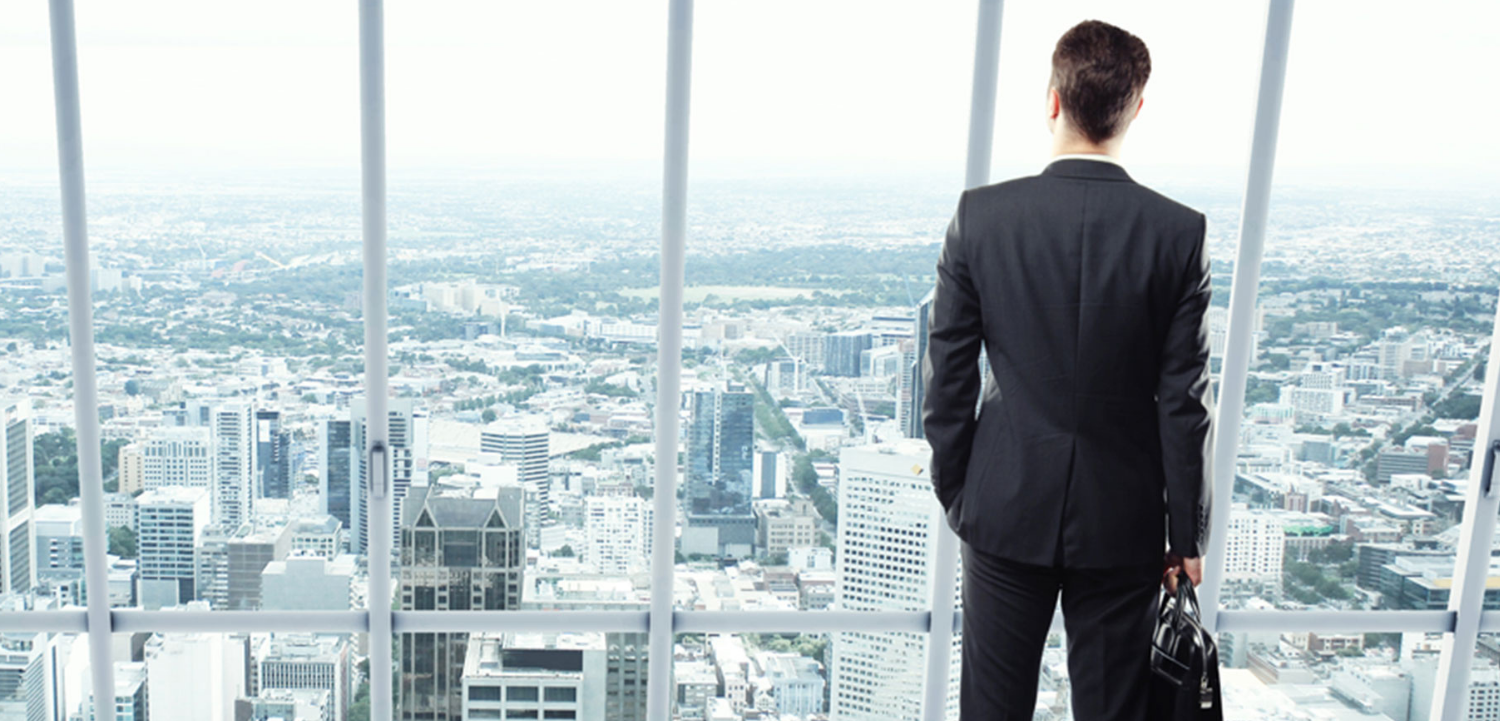
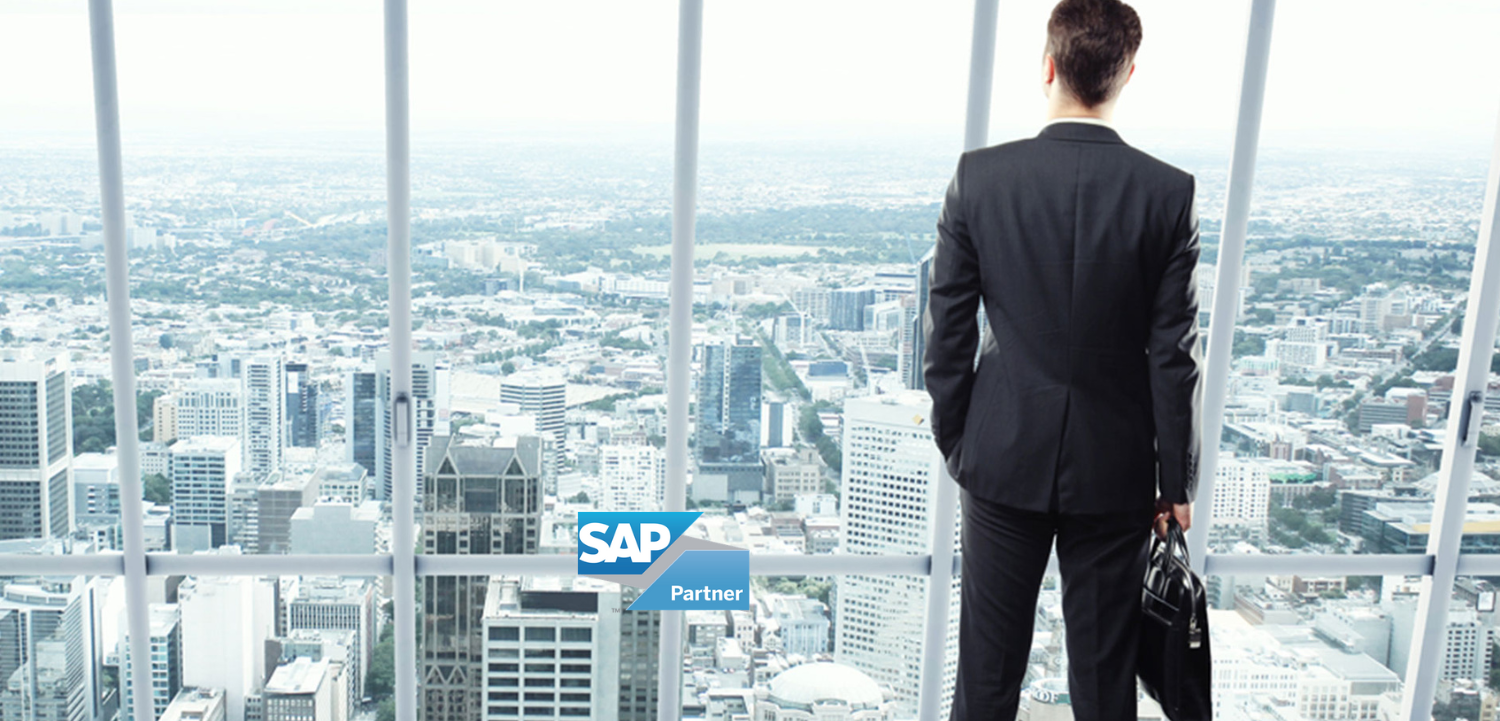
fix 20/07

diff --git a/index.html b/index.html
@@ -79,7 +79,9 @@
             <div class="col-md-7 col-sm-12 col-xs-12">
               <h1>Somos</h1>
               <h2>Prime Group</h2>
-              <p>Una empresa de servicios de consultoría TI, especialistas en toda la cadena de valor de la compañía.</p>
+              <p>Una empresa de servicios de consultoría TI, especialistas en toda la cadena de valor de la compañía.
+               <p> <button class="saberMas" id="abrirSAP""> Saber más </button>
+                <!-- <img class="sap" height="54" height="85" src="images/Slider/sap.png"> </p>-->
             </div>
           </div>
         </div>
@@ -211,7 +213,7 @@
         <path d="M0 8.083v15.835h16.172l15.828-15.835zM4.355 11.031h0.005c1.151 0 2.552 0.324 3.567 0.844l-1.093 1.907c-1.115-0.541-1.672-0.588-2.307-0.625-0.943-0.052-1.417 0.287-1.428 0.651-0.005 0.444 0.896 0.844 1.745 1.12 1.281 0.407 2.916 0.953 3.167 2.532l2.349-6.208h2.728l2.751 7.432-0.011-7.432h3.161c3.011 0 4.427 1.020 4.427 3.359 0 2.099-1.452 3.355-3.916 3.355h-1.016l-0.015 2.791-4.781-0.005-0.333-1.213c-0.495 0.167-1.052 0.256-1.641 0.256-0.609 0-1.183-0.095-1.687-0.265l-0.475 1.223-2.667 0.005 0.12-0.615c-0.041 0.037-0.079 0.068-0.12 0.1-0.708 0.572-1.609 0.839-2.713 0.859h-0.287c-1.203 0.016-2.391-0.296-3.437-0.896l0.973-1.932c1.052 0.625 1.715 0.76 2.605 0.745 0.463-0.011 0.796-0.095 1.015-0.319 0.131-0.135 0.204-0.307 0.209-0.495 0.009-0.5-0.709-0.733-1.579-1.005-0.708-0.219-1.516-0.52-2.141-0.984-0.744-0.541-1.104-1.229-1.083-2.197 0.005-0.688 0.276-1.344 0.755-1.833 0.693-0.719 1.808-1.152 3.152-1.152zM18.479 13.255v2.543h0.699c0.921 0 1.661-0.308 1.661-1.287 0-0.948-0.74-1.256-1.661-1.256zM11.697 14.281l-0.995 3.145c0.297 0.115 0.641 0.177 1.005 0.177 0.36 0 0.699-0.063 0.989-0.167l-0.979-3.161z"/>
       </svg>
       </a></li>
-      <li title="MAM" role="presentation"><p>MAM</p><a href="#tab-6" role="tab" data-toggle="tab"><svg version="1.0" xmlns="http://www.w3.org/2000/svg"
+      <li title="MAM" role="presentation"><p>MAM®</p><a href="#tab-6" role="tab" data-toggle="tab"><svg version="1.0" xmlns="http://www.w3.org/2000/svg"
         width="40.000000pt" height="80.000000pt" viewBox="0 0 108.000000 80.000000"
         preserveAspectRatio="xMidYMid meet">
        
@@ -330,7 +332,7 @@
       </div>
       <div role="tabpanel" class="tab-pane fade feat-sec" id="tab-6">
         <div class="col-md-6 tab">
-          <h5>Mobile Asset Management © (MAM)</h5>
+          <h5>MAM® (Mobile Asset Management)</h5>
           <div class="line"></div>
           <div class="clearfix"></div>
           <p class="feat-sec">Es una solución diseñada para el control y administración del stock y servicios brindados por contratistas o cuadrillas de trabajo en terreno. Permite realizar la gestión de operaciones y obras, desde el agendamiento de los trabajos a los técnicos, control de stock asignado a cuadrillas, bitácoras de trabajo, mantenimiento, instalaciones y control de avance, entre otros.

diff --git a/js/script.js b/js/script.js
@@ -13,7 +13,7 @@ $(document).ready(function() {
   var owl = $("#owl-slider");
  
   owl.owlCarousel({
- autoPlay: 3000, //Set AutoPlay to 3 seconds
+    autoPlay: 10000, //Set AutoPlay to 3 seconds
     singleItem : true,
     transitionStyle : "fade"
   });
@@ -69,7 +69,7 @@ $(document).ready(function() {
   var owl = $("#owl-testi");
  
   owl.owlCarousel({
-    autoPlay: 3000, //Set AutoPlay to 3 seconds
+    autoPlay: 10000, //Set AutoPlay to 3 seconds
     singleItem : true,
     transitionStyle : "fade"
   });
@@ -181,7 +181,7 @@ $(document).ready(function() {
             [1600, 5]
         ],
         pagination: false,
-       autoPlay: 3000, //Set AutoPlay to 3 seconds
+       autoPlay: 10000, //Set AutoPlay to 3 seconds
 
     });
 	
@@ -241,7 +241,7 @@ $(document).ready(function() {
  
   $("#owl-main-slider").owlCarousel({
  
-       autoPlay: 3000, //Set AutoPlay to 3 seconds
+       autoPlay: 10000, //Set AutoPlay to 3 seconds
       slideSpeed : 300,
       paginationSpeed : 400,
       singleItem:true
@@ -287,7 +287,7 @@ $('#slider-parallax').stellar();
  
   $("#owl-text-slider").owlCarousel({
  
-      autoPlay: 3000, //Set AutoPlay to 3 seconds
+      autoPlay: auto, //Set AutoPlay to 3 seconds
       slideSpeed : 300,
       paginationSpeed : 400,
       singleItem:true

diff --git a/js/jquery.mostrarMas.js b/js/jquery.mostrarMas.js
@@ -2,11 +2,16 @@
 $('#abrirMAM').on('click', function () {
     console.log("estás aquí");  
     $('.nav-tabs a[href="#tab-6"]').tab('show');
-    document.getElementById("tab-6").scrollIntoView();
+    document.getElementById("features").scrollIntoView();
   })
   
 $('#abrirECom').on('click', function () {
     console.log("estás aquí");  
     $('.nav-tabs a[href="#tab-2"]').tab('show');
-    document.getElementById("tab-2").scrollIntoView();
+    document.getElementById("features").scrollIntoView();
+  })
+$('#abrirSAP').on('click', function () {
+    console.log("estás aquí");  
+    $('.nav-tabs a[href="#tab-1"]').tab('show');
+    document.getElementById("features").scrollIntoView();
   })

diff --git a/js/owl.carousel.js b/js/owl.carousel.js
@@ -109,7 +109,7 @@ if (typeof Object.create !== "function") {
                 base.transitionTypes(base.options.transitionStyle);
             }
             if (base.options.autoPlay === true) {
-                base.options.autoPlay = 5000;
+                base.options.autoPlay = 15000;
             }
             base.play();
 

diff --git a/css/style.css b/css/style.css
@@ -130,6 +130,11 @@ color: #FFF;
 	background-size:cover;
 	background-repeat:no-repeat;
 }
+.sap{
+	width: 150;
+	height: 88;
+	
+}
  .srm::before {
 	content: "\2022";  /* Add content: \2022 is the CSS Code/unicode for a bullet */
 	color:#003e93; /* Change the color */
